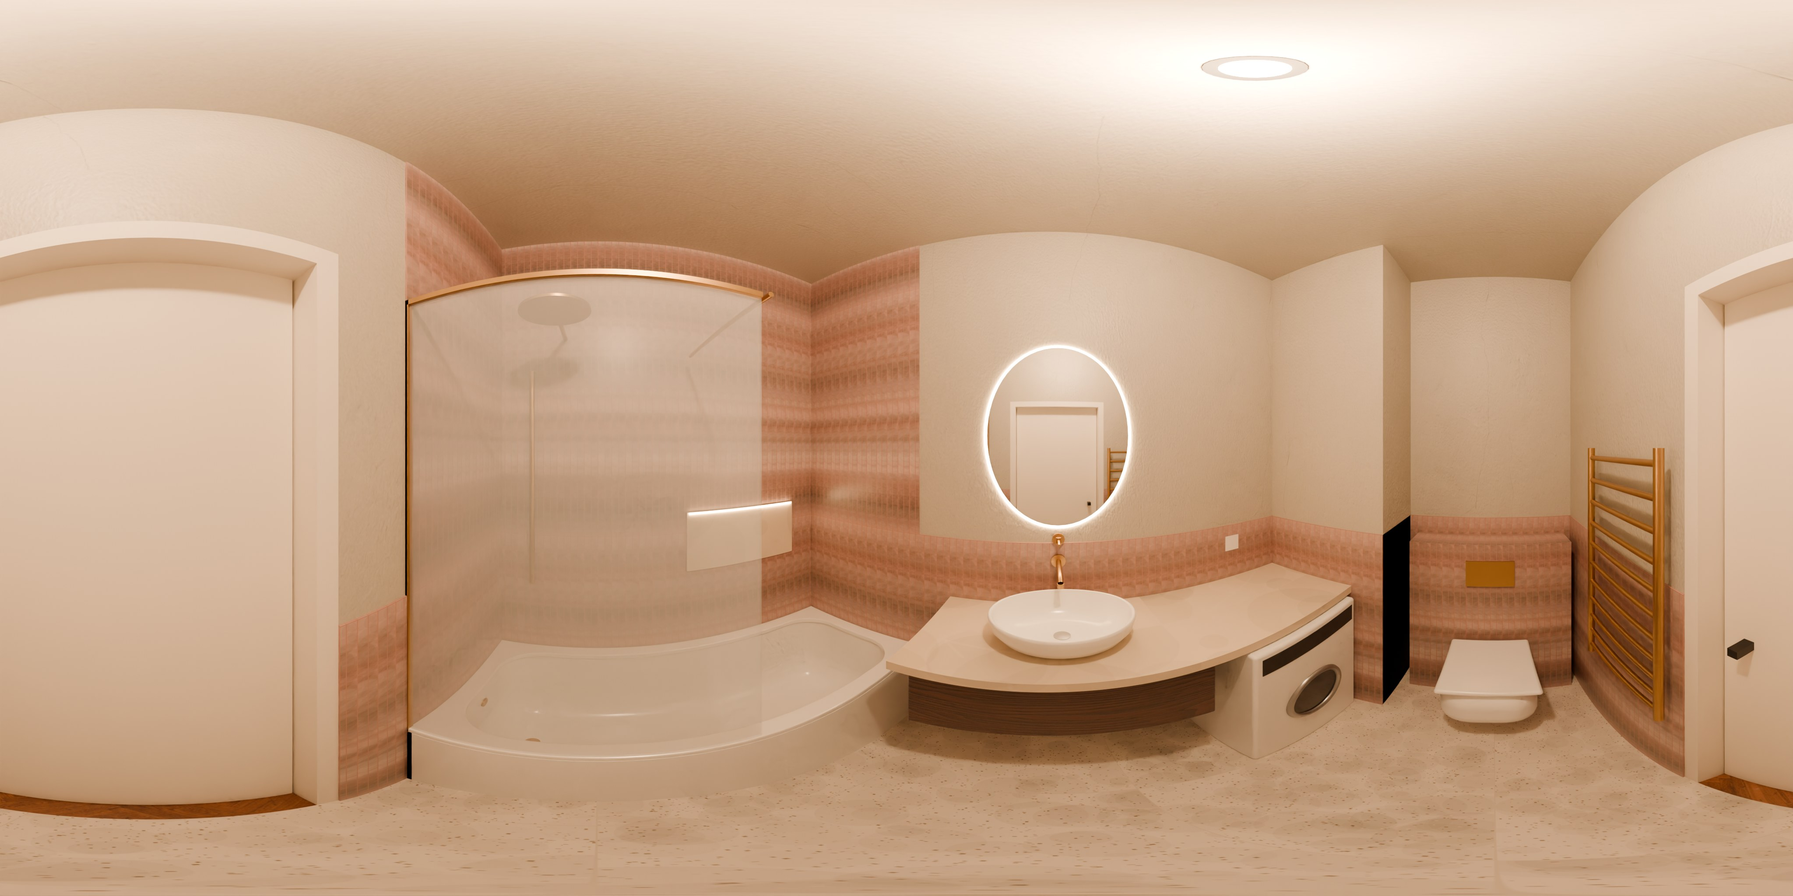
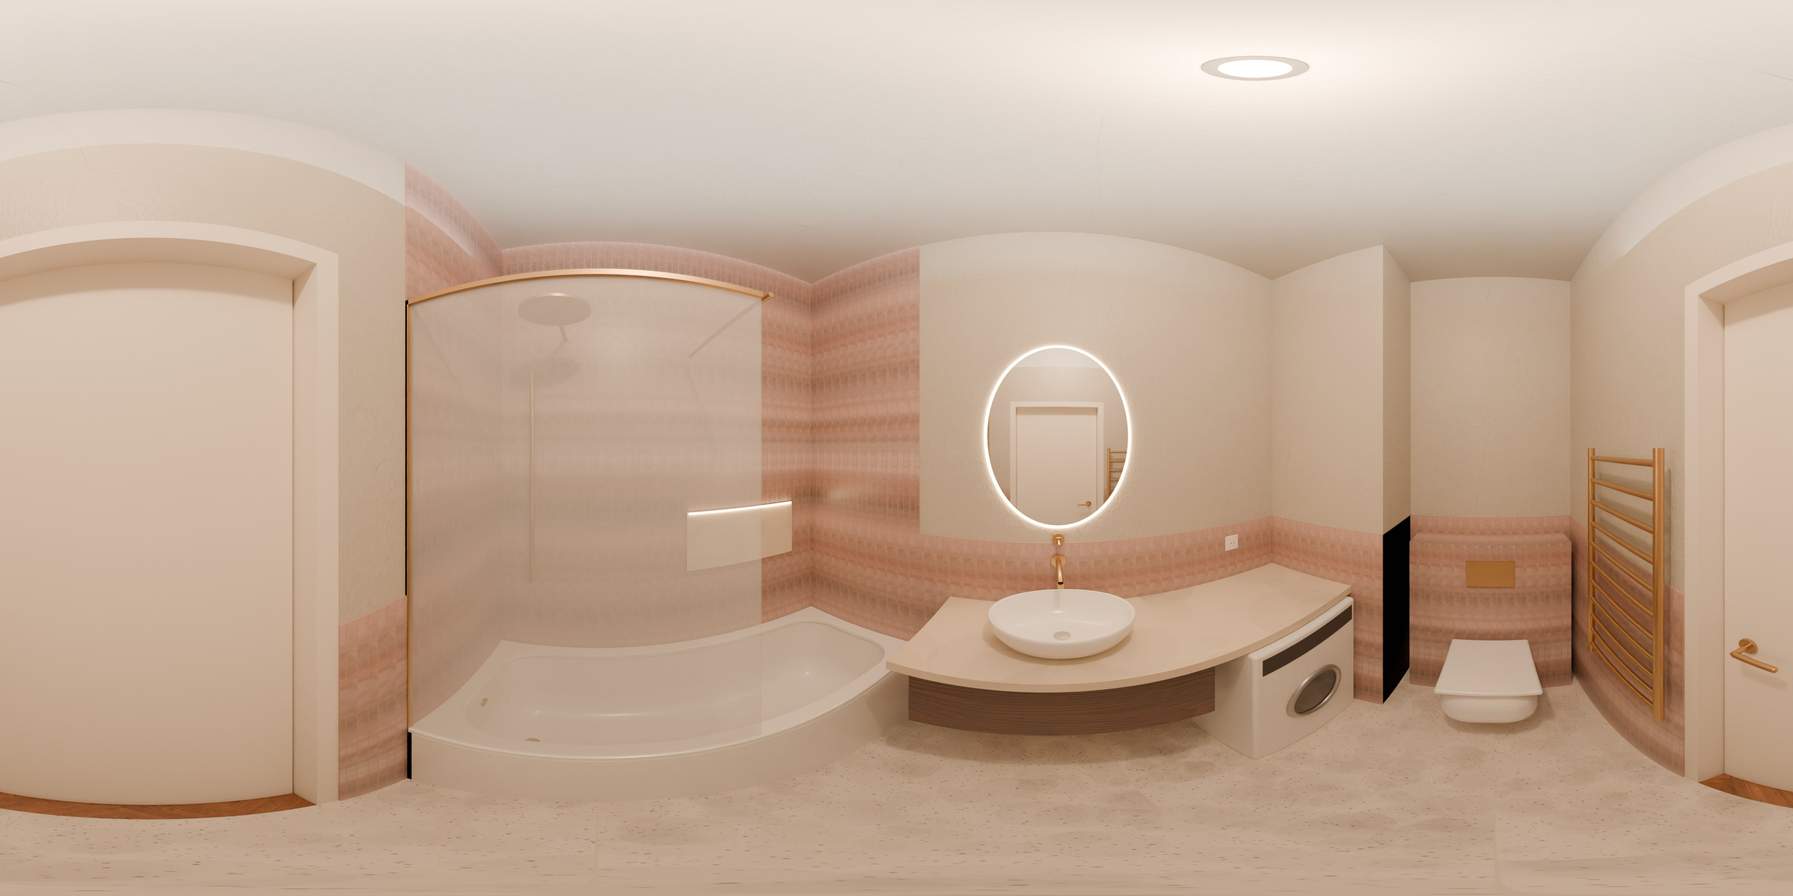
Detale i światło: klamki, osprzęt, logika mebli, równe oświetlenie panoram
- usunięty efekt GTAO (schodkowe obwódki na cienkich krawędziach: narożniki, włączniki, klamki)
- klamki z rozetą i dźwignią (drzwi – mosiądz w stylach, okna – dźwignia w dół), włączniki z klawiszem, gniazdka z kołnierzem i otworami
- meble: bez fotela wciśniętego między szafę a okno (styl 1), ozdoby tylko na górnej półce w gabinecie, rozsunięte lampa i stolik przy narożniku
- spacer w dzień: słabsze światło z okien, mocniejsze wypełnienie
- panoramy: krzywa AgX Low Contrast i światło wypełniające pod sufitem; ponowny render 16 panoram

diff --git a/mieszkania/m21/style/styl1.ts b/mieszkania/m21/style/styl1.ts
@@ -26,6 +26,7 @@ export const styl1Materials: Record<SurfaceKey, MaterialSpec> = {
   threshold: oakHerringbone, // jedna podłoga, bez progów
   concrete: { texture: 'smokedOak', tint: 0xb08d6c, roughness: 0.8 }, // balkon: deska tarasowa
   doorInterior: { color: 0xece4d8, roughness: 0.6 }, // drzwi bezprzylgowe w kolorze ściany
+  handle: { color: 0xb8925a, roughness: 0.3, metalness: 1 }, // mosiężne klamki
   doorEntrance: { texture: 'walnut', tint: 0xf5c8a0, roughness: 0.6 }, // od wewnątrz orzech
   bulb: { color: 0xfff6e8, roughness: 0.3 }, // nieużywane – lampy są meblami
 };
@@ -91,8 +92,8 @@ export const styl1Furniture: FurnitureItem[] = [
   // ── Salon: sofa bouclé pod lewą ścianą, stolik z orzecha, trawertynowy stolik boczny, juta, oliwka ──
   { id: 'sofa', type: 'sofa', x: 47.5, y: 685, facing: '+x', params: { w: 240, d: 95, accentA: 'cushionOat', accentB: 'cushionGreen' } },
   { id: 'coffeeTable', type: 'coffeeTable', x: 185, y: 685, facing: '+x', params: { w: 90, h: 36, shape: 'round', mat: 'walnut' } },
-  { id: 'sideTable', type: 'sideTable', x: 60, y: 545, facing: '+x', params: { r: 20, h: 50, mat: 'travertine' } },
-  { id: 'floorLamp', type: 'floorLampShade', x: 22, y: 540, facing: '+x', params: { h: 165, cd: 25, stem: 'brass' } },
+  { id: 'sideTable', type: 'sideTable', x: 70, y: 545, facing: '+x', params: { r: 20, h: 50, mat: 'travertine' } },
+  { id: 'floorLamp', type: 'floorLampShade', x: 24, y: 540, facing: '+x', params: { h: 165, cd: 25, stem: 'brass' } },
   { id: 'olive', type: 'model', x: 40, y: 838, facing: '+x', params: { file: 'potted_plant_04.glb', height: 150, w: 50, d: 50 } },
   { id: 'livingRug', type: 'rug', x: 130, y: 685, facing: '+x', params: { w: 280, d: 200, mat: 'rugJute' } },
   { id: 'curtainL', type: 'curtain', x: 39, y: 862, facing: '-y', params: { w: 70, mat: 'curtainLinen', ceiling: CEIL } },
@@ -119,6 +120,7 @@ export const styl1Furniture: FurnitureItem[] = [
   { id: 'hallRunner', type: 'rug', x: 640, y: 62, facing: '+y', params: { w: 420, d: 75, mat: 'rugJute' } },
 
   // ── Sypialnia: łóżko 160 × 200 przy prawej ścianie, boiserie z orzecha, pas trawertynu, ryflowane panele do sufitu ──
+  // (fotel z moodboardu pominięty – między szafą a oknem nie da się na nim usiąść)
   { id: 'boiserie', type: 'wallPanel', x: 1034.9, y: -178, facing: '-x', params: { w: 308, h: 105, t: 2, mat: 'walnut' } },
   { id: 'bedBand', type: 'wallPanel', x: 1035, y: -178, z: 105, facing: '-x', params: { w: 308, h: 10, t: 1.8, mat: 'travertine' } },
   { id: 'bedPanels', type: 'wallPanel', x: 1035.5, y: -178, z: 115, facing: '-x', params: { w: 308, h: CEIL - 115, t: 0.8, mat: 'limeFront' } },
@@ -131,8 +133,6 @@ export const styl1Furniture: FurnitureItem[] = [
   { id: 'bench', type: 'block', x: 803, y: -182.9, facing: '-x', params: { w: 100, d: 40, h: 45, r: 3, mat: 'boucle', collide: true } },
   { id: 'bedRug', type: 'rug', x: 900, y: -182.9, facing: '-x', params: { w: 280, d: 230 } },
   { id: 'bedWardrobe', type: 'wardrobe', x: 644.1, y: -124.1, facing: '+x', params: { w: 230, d: 60, h: CEIL, doors: 4, front: 'limeFront' } },
-  { id: 'armchair', type: 'sofa', x: 660, y: -290, facing: '+y', params: { w: 85, d: 80, seats: 1, fabric: 'boucle', accentA: 'cushionOat', accentB: 'boucle' } },
-  { id: 'armchairTable', type: 'sideTable', x: 728, y: -305, facing: '+y', params: { r: 20, h: 50, mat: 'travertine' } },
   { id: 'bedLight', type: 'downlight', x: 830, y: -182, facing: '+y', params: { cd: 28 } },
   { id: 'bedCurtainL', type: 'curtain', x: 636, y: -328, facing: '+y', params: { w: 40, mat: 'curtainLinen', ceiling: CEIL } },
   { id: 'bedSheer', type: 'curtain', x: 727, y: -333, facing: '+y', params: { w: 210, mat: 'curtainSheer', ceiling: CEIL, depth: 6, period: 9 } },
@@ -145,8 +145,8 @@ export const styl1Furniture: FurnitureItem[] = [
   { id: 'deskLeg', type: 'block', x: 575.9, y: -133.7, facing: '-x', params: { w: 3, d: 58, h: 72 } },
   { id: 'deskChair', type: 'diningChair', x: 520, y: -201, facing: '+x', params: { seat: 'boucle' } },
   { id: 'deskShelf1', type: 'wallShelf', x: 593.9, y: -201.2, z: 115, facing: '-x', params: { w: 120, d: 22, mat: 'walnut', decor: false } },
-  { id: 'deskShelf2', type: 'wallShelf', x: 593.9, y: -201.2, z: 150, facing: '-x', params: { w: 120, d: 22, mat: 'walnut' } },
-  { id: 'deskShelf3', type: 'wallShelf', x: 593.9, y: -201.2, z: 185, facing: '-x', params: { w: 120, d: 22, mat: 'walnut', decor: false } },
+  { id: 'deskShelf2', type: 'wallShelf', x: 593.9, y: -201.2, z: 150, facing: '-x', params: { w: 120, d: 22, mat: 'walnut', decor: false } },
+  { id: 'deskShelf3', type: 'wallShelf', x: 593.9, y: -201.2, z: 185, facing: '-x', params: { w: 120, d: 22, mat: 'walnut' } }, // ramka i książki tylko na górnej – niżej nie zmieściłyby się pod półką
   { id: 'deskLed', type: 'block', x: 590, y: -201.2, z: 114.4, facing: '-x', params: { w: 116, d: 1, h: 0.6, mat: 'led' } },
   { id: 'daybed', type: 'bed', x: 397.5, y: -222, facing: '+y', params: { w: 90, l: 190, headH: 70, frame: 'boucle', upholstered: true, pillow: 'cushionGreen' } },
   { id: 'officeWardrobe', type: 'wardrobe', x: 410.5, y: -41.7, facing: '-y', params: { w: 122, d: 65, h: CEIL, doors: 2 } },

diff --git a/src/geometry/fixtures.ts b/src/geometry/fixtures.ts
@@ -1,4 +1,5 @@
 import * as THREE from 'three';
+import { RoundedBoxGeometry } from 'three/addons/geometries/RoundedBoxGeometry.js';
 import type { Apartment, Fixture, FixtureType, Variant } from '../data/types';
 import { inVariant } from '../core/plan';
 import { m } from '../core/units';
@@ -32,17 +33,27 @@ export function bulbLamps(ap: Apartment, variant: Variant): Lamp[] {
     .map((f) => ({ x: f.x, y: f.y, z: f.z - CABLE - HOLDER - BULB_RADIUS, intensity: BULB_CD, color: BULB_COLOR }));
 }
 
-function plateBox(f: Fixture): PlanBox {
+const FACING_ANGLE = { '+y': 0, '-y': Math.PI, '+x': Math.PI / 2, '-x': -Math.PI / 2 } as const;
+
+/** Lico osprzętu (cm → m): zaokrąglona ramka; włącznik z klawiszem, gniazdko z kołnierzem i otworami (`dark`). */
+function plateParts(f: Fixture): { light: THREE.BufferGeometry[]; dark: THREE.BufferGeometry[] } {
+  if (f.facing === 'down') throw new Error(`osprzęt ${f.id}: lico 'down' tylko dla wypustu sufitowego`);
   const [w, h, t] = PLATE[f.type as keyof typeof PLATE];
-  const z0 = f.z - h / 2;
-  const z1 = f.z + h / 2;
-  switch (f.facing) {
-    case '+y': return { x0: f.x - w / 2, x1: f.x + w / 2, y0: f.y, y1: f.y + t, z0, z1 };
-    case '-y': return { x0: f.x - w / 2, x1: f.x + w / 2, y0: f.y - t, y1: f.y, z0, z1 };
-    case '+x': return { x0: f.x, x1: f.x + t, y0: f.y - w / 2, y1: f.y + w / 2, z0, z1 };
-    case '-x': return { x0: f.x - t, x1: f.x, y0: f.y - w / 2, y1: f.y + w / 2, z0, z1 };
-    case 'down': throw new Error(`osprzęt ${f.id}: lico 'down' tylko dla wypustu sufitowego`);
+  const light: THREE.BufferGeometry[] = [new RoundedBoxGeometry(w, h, t, 3, Math.min(0.6, t / 2 - 0.01)).translate(0, 0, t / 2)];
+  const dark: THREE.BufferGeometry[] = [];
+  if (f.type === 'switch') light.push(new RoundedBoxGeometry(5, 5, 0.6, 2, 0.25).translate(0, 0, t + 0.1));
+  if (f.type === 'socket' || f.type === 'socketDouble') {
+    for (const cx of f.type === 'socket' ? [0] : [-3.6, 3.6]) {
+      light.push(new THREE.CylinderGeometry(2.3, 2.3, 0.3, 32).rotateX(Math.PI / 2).translate(cx, 0, t + 0.1));
+      for (const hx of [-0.95, 0.95]) dark.push(new THREE.CylinderGeometry(0.28, 0.28, 0.2, 12).rotateX(Math.PI / 2).translate(cx + hx, 0, t + 0.26));
+    }
   }
+  const place = new THREE.Matrix4()
+    .makeTranslation(m(f.x), m(f.z), m(f.y))
+    .multiply(new THREE.Matrix4().makeRotationY(FACING_ANGLE[f.facing]))
+    .multiply(new THREE.Matrix4().makeScale(0.01, 0.01, 0.01));
+  for (const g of [...light, ...dark]) g.applyMatrix4(place);
+  return { light, dark };
 }
 
 /** Grzejniki płytowe i osprzęt elektryczny (orientacyjny) stanu surowego. */
@@ -51,6 +62,8 @@ export function buildFixtures(ap: Apartment, variant: Variant, ceiling: CeilingF
   group.name = 'fixtures';
   const plates: PlanBox[] = [];
   const cables: PlanBox[] = [];
+  const faces: THREE.BufferGeometry[] = [];
+  const holes: THREE.BufferGeometry[] = [];
 
   for (const f of ap.fixtures.filter((fx) => inVariant(fx, variant))) {
     if (f.type === 'ceilingOutlet' && ceiling === 'none') continue;
@@ -58,7 +71,9 @@ export function buildFixtures(ap: Apartment, variant: Variant, ceiling: CeilingF
       cables.push({ x0: f.x - 0.4, x1: f.x + 0.4, y0: f.y - 0.4, y1: f.y + 0.4, z0: f.z - CABLE, z1: f.z });
       plates.push({ x0: f.x - 2, x1: f.x + 2, y0: f.y - 2, y1: f.y + 2, z0: f.z - CABLE - HOLDER, z1: f.z - CABLE });
     } else {
-      plates.push(plateBox(f));
+      const { light, dark } = plateParts(f);
+      faces.push(...light);
+      holes.push(...dark);
     }
   }
 
@@ -68,8 +83,8 @@ export function buildFixtures(ap: Apartment, variant: Variant, ceiling: CeilingF
       : [];
   const radiators = ap.radiators.map((r) => boxGeometry({ x0: r.x0, x1: r.x1, y0: r.y0, y1: r.y1, z0: r.bottom, z1: r.top }));
   const parts: [keyof MaterialSet, THREE.BufferGeometry[]][] = [
-    ['fixture', plates.map(boxGeometry)],
-    ['cable', cables.map(boxGeometry)],
+    ['fixture', [...plates.map(boxGeometry), ...faces]],
+    ['cable', [...cables.map(boxGeometry), ...holes]],
     ['radiator', radiators],
     ['bulb', bulbs],
   ];

diff --git a/src/geometry/openings.ts b/src/geometry/openings.ts
@@ -1,4 +1,5 @@
 import * as THREE from 'three';
+import { RoundedBoxGeometry } from 'three/addons/geometries/RoundedBoxGeometry.js';
 import type { Apartment, Door, DoorKind, Variant } from '../data/types';
 import { wallAxis, wallsFor } from '../core/plan';
 import { m } from '../core/units';
@@ -63,6 +64,34 @@ export interface OpeningsOptions {
   interiorDoors: boolean;
 }
 
+/**
+ * Klamka po obu stronach skrzydła (cm → m): rozeta, szyjka i dźwignia w stronę środka skrzydła (drzwi)
+ * albo w dół (okna, drzwi balkonowe). `a` – położenie wzdłuż ściany, `n` – środek grubości skrzydła.
+ */
+function handle(wall: Parameters<typeof alongWall>[0], a: number, n: number, thickness: number, toCenter: 1 | -1, down: boolean): THREE.BufferGeometry[] {
+  const Z = 104;
+  const alongX = wallAxis(wall) === 'x';
+  // Układ lokalny: x wzdłuż ściany, y w górę, z w poprzek; ściana wzdłuż y – obrót o 90° (lokalne x → −Y rzutu).
+  const dir = alongX ? toCenter : -toCenter;
+  const parts: THREE.BufferGeometry[] = [];
+  for (const f of [1, -1]) {
+    const face = f * (thickness / 2);
+    parts.push(new THREE.CylinderGeometry(2.6, 2.6, 0.8, 32).rotateX(Math.PI / 2).translate(0, 0, face + f * 0.4)); // rozeta
+    parts.push(new THREE.CylinderGeometry(0.9, 0.9, 5, 16).rotateX(Math.PI / 2).translate(0, 0, face + f * 3.3)); // szyjka
+    parts.push(
+      down
+        ? new RoundedBoxGeometry(1.8, 11, 1.6, 3, 0.7).translate(0, -5, face + f * 5.4)
+        : new RoundedBoxGeometry(12, 1.8, 1.8, 3, 0.8).translate(dir * 5.5, 0, face + f * 5.4),
+    ); // dźwignia
+  }
+  const at = alongWall(wall, a, a, n, n, Z, Z);
+  const place = new THREE.Matrix4()
+    .makeTranslation(m(at.x0), m(Z), m(at.y0))
+    .multiply(new THREE.Matrix4().makeRotationY(alongX ? 0 : Math.PI / 2))
+    .multiply(new THREE.Matrix4().makeScale(0.01, 0.01, 0.01));
+  return parts.map((g) => g.applyMatrix4(place));
+}
+
 export function buildOpenings(ap: Apartment, opts: OpeningsOptions, mats: MaterialSet): { group: THREE.Group; leaves: DoorLeaf[] } {
   const group = new THREE.Group();
   group.name = 'openings';
@@ -123,15 +152,15 @@ export function buildOpenings(ap: Apartment, opts: OpeningsOptions, mats: Materi
     const leafParts: [SurfaceKey, PlanBox][] = style.glazed
       ? glazedPanel(leafA0, leafA1)
       : [[style.leaf, box(leafA0, leafA1, leafN, zBottom, zTop)]];
-    const handleN: [number, number] = [plane + s * 6, plane - s * (style.leafThickness + 6)];
-    leafParts.push(['metal', box(handleA - 1.5, handleA + 1.5, handleN, 103, 106)]);
+    const handleGeos = handle(wall, handleA, plane - (s * style.leafThickness) / 2, style.leafThickness, (-d) as 1 | -1, style.glazed);
 
     const pivotPos = alongWall(wall, hingeA, hingeA, plane, plane, 0, 0);
     const pivot = new THREE.Group();
     pivot.name = `door:${door.id}`;
     pivot.position.set(m(pivotPos.x0), 0, m(pivotPos.y0));
-    for (const key of new Set(leafParts.map(([k]) => k))) {
-      const geo = mergeStatic(leafParts.filter(([k]) => k === key).map(([, b]) => boxGeometry(b)));
+    const handleKey: SurfaceKey = style.glazed ? 'metal' : 'handle';
+    for (const key of new Set([...leafParts.map(([k]) => k), handleKey])) {
+      const geo = mergeStatic([...leafParts.filter(([k]) => k === key).map(([, b]) => boxGeometry(b)), ...(key === handleKey ? handleGeos : [])]);
       geo.translate(-pivot.position.x, 0, -pivot.position.z);
       const mesh = new THREE.Mesh(geo, mats[key]);
       mesh.castShadow = key !== 'glass';

diff --git a/src/main.ts b/src/main.ts
@@ -6,7 +6,6 @@ import type { ModeId } from './data/modes';
 import type { Room, Variant } from './data/types';
 import { buildApartmentModel, type ApartmentModel } from './geometry/apartmentModel';
 import { createRenderer, bindResize } from './scene/renderer';
-import { PostFx } from './scene/postfx';
 import { bakeLights, exportBakeScene, isBakeable, loadBake, setAmbientLight } from './scene/bake';
 import { SKY_HDRI } from './data/materials';
 import type { MaterialSet } from './scene/materials';
@@ -154,8 +153,6 @@ window.addEventListener('keydown', (e) => e.code === 'KeyP' && void openPanorama
 sidebar.append(roomList.element, panoButton, minimap.element);
 hudRoot.appendChild(sidebar);
 
-const postfx = isTouch ? null : new PostFx(renderer, scene, walkCamera); // na telefonie bez efektów – płynność ważniejsza
-
 bindResize(renderer, (w, h) => {
   walkCamera.aspect = w / h;
   // Na pionowym ekranie szerszy kąt w pionie, żeby w poziomie nie widzieć „przez dziurkę od klucza”.
@@ -163,7 +160,6 @@ bindResize(renderer, (w, h) => {
   walkCamera.updateProjectionMatrix();
   views.resize(w, h);
   labels.renderer.setSize(w, h);
-  postfx?.setSize(w, h);
 });
 
 // Materiały trybów (ładowane przy pierwszym użyciu) i niebo.
@@ -337,7 +333,6 @@ void loadMode(store.get().mode);
 const adaptive = new AdaptiveQuality(
   renderer,
   () => materials && Object.values(materials).forEach((mat) => (mat.needsUpdate = true)),
-  postfx ? [() => (postfx.enabled = false)] : [], // za wolno – najpierw wyłączamy efekty
 );
 const tickFps = isDebug ? createFpsMeter() : null;
 if (isDebug) {
@@ -378,11 +373,10 @@ if (isDebug) {
     await upload(`${loadedMode}-${time}.json`, JSON.stringify(lights));
     return `${loadedMode}: ${(glb.byteLength / 1e6).toFixed(1)} MB, lamp: ${lights.lamps.length}`;
   };
-  Object.assign(window, { app: { player, doors, desktop, touch, apartment, store, walk, pick, adaptive, memory, stats, renderer, bench, postfx, exportBake, baked: () => baked } });
+  Object.assign(window, { app: { player, doors, desktop, touch, apartment, store, walk, pick, adaptive, memory, stats, renderer, bench, exportBake, baked: () => baked } });
 }
 
-// Przy wypalonym świetle cienie w kątach są już w lightmapie – efekt GTAO zbędny.
-const renderWalk = () => (postfx?.enabled && !baked ? postfx.render(walkCamera) : renderer.render(scene, walkCamera));
+const renderWalk = () => renderer.render(scene, walkCamera);
 
 const clock = new THREE.Clock();
 renderer.setAnimationLoop(() => {

diff --git a/mieszkania/m21/style/styl2.ts b/mieszkania/m21/style/styl2.ts
@@ -33,7 +33,7 @@ const REPLACED = new Set([
   'stoolA', 'stoolB', 'tvWall', 'nicheBack', 'nicheSideN', 'nicheSideS', 'nicheLed', 'tv', 'tvCabinet',
   'sofa', 'coffeeTable', 'sideTable', 'floorLamp', 'olive', 'livingRug',
   'diningTable', 'chairN', 'chairW', 'chairS', 'diningDome', 'hallRunner',
-  'bedWardrobe', 'armchair', 'armchairTable',
+  'bedWardrobe',
   'accentWall', 'deskTop', 'deskDrawers', 'deskLeg', 'deskChair', 'deskShelf1', 'deskShelf2', 'deskShelf3', 'deskLed', 'daybed', 'rollerBlind',
 ]);
 
@@ -60,8 +60,8 @@ export const styl2Furniture: FurnitureItem[] = [
   { id: 'sofa', type: 'sofa', x: 47.5, y: 695, facing: '+x', params: { w: 270, d: 95, accentA: 'cushionOat', accentB: 'cushionGreen' } },
   { id: 'chaise', type: 'block', x: 125, y: 607.5, facing: '+x', params: { w: 95, d: 60, h: 44, r: 6, mat: 'boucle', collide: true } },
   { id: 'coffeeTable', type: 'coffeeTable', x: 190, y: 712, facing: '+x', params: { w: 90, h: 36, shape: 'round', mat: 'walnut' } },
-  { id: 'sideTable', type: 'sideTable', x: 65, y: 535, facing: '+x', params: { r: 20, h: 50, mat: 'travertine' } },
-  { id: 'floorLamp', type: 'floorLampShade', x: 20, y: 540, facing: '+x', params: { h: 165, cd: 25, stem: 'brass' } },
+  { id: 'sideTable', type: 'sideTable', x: 70, y: 535, facing: '+x', params: { r: 20, h: 50, mat: 'travertine' } },
+  { id: 'floorLamp', type: 'floorLampShade', x: 24, y: 536, facing: '+x', params: { h: 165, cd: 25, stem: 'brass' } },
   { id: 'olive', type: 'model', x: 35, y: 852, facing: '+x', params: { file: 'potted_plant_04.glb', height: 120, w: 45, d: 45 } },
   { id: 'livingRug', type: 'rug', x: 175, y: 712, facing: '+x', params: { w: 240, d: 170, mat: 'rugJute' } },
 

diff --git a/src/core/quality.ts b/src/core/quality.ts
@@ -20,7 +20,7 @@ const WARMUP_SECONDS = 2;
 
 /**
  * Automatyczne obniżanie jakości, gdy średni FPS spada poniżej 30:
- * najpierw przekazane kroki (np. efekty obrazu), potem rozdzielczość renderowania (DPR), na końcu cienie. Jakości nie podnosi z powrotem.
+ * najpierw rozdzielczość renderowania (DPR), na końcu cienie. Jakości nie podnosi z powrotem.
  */
 export class AdaptiveQuality {
   private elapsed = 0;
@@ -29,11 +29,10 @@ export class AdaptiveQuality {
   private level = 0;
   private readonly steps: (() => void)[];
 
-  constructor(private readonly renderer: THREE.WebGLRenderer, private readonly onShadowsOff: () => void, firstSteps: (() => void)[] = []) {
+  constructor(private readonly renderer: THREE.WebGLRenderer, private readonly onShadowsOff: () => void) {
     const start = renderer.getPixelRatio();
     const ratios = [1.25, 1].filter((r) => r < start);
     this.steps = [
-      ...firstSteps,
       ...ratios.map((r) => () => renderer.setPixelRatio(r)),
       () => {
         renderer.shadowMap.enabled = false;

diff --git a/scripts/panoramas.ts b/scripts/panoramas.ts
@@ -33,6 +33,8 @@ for (const style of styles) {
     args.push('--size', size, '--samples', samples, '--camera', `${p.x / 100},${p.z / 100},${p.y / 100},${p.yaw}`, '--exposure', String(p.exposure));
     if (p.lamps === 'all') args.push('--lamps-from', `bake-work/${style}-evening.json`);
     if (p.lampGain) args.push('--lamp-gain', String(p.lampGain));
+    // Wnętrze równo doświetlone i łagodna krzywa kontrastu – klient ma zobaczyć pokój, nie głębokie cienie.
+    args.push('--look', 'AgX - Low Contrast', '--fill', String(p.fill ?? 45));
     const started = Date.now();
     const run = spawnSync(BLENDER, args, { encoding: 'utf8' });
     if (run.status !== 0) throw new Error(`${name}: Blender zakończył się błędem\n${run.stderr.slice(-2000)}`);

diff --git a/src/scene/lighting.ts b/src/scene/lighting.ts
@@ -21,7 +21,8 @@ const PRESETS: Record<TimeOfDay, {
   background: number;
   lampsOn: boolean; // lampy sztuczne (poza tymi, które świecą zawsze – np. łazienka bez okna)
 }> = {
-  day: { exposure: 1.05, sun: 3.2, sky: 7, skyColor: 0xdde8f7, fill: 0.8, environment: 0.35, background: 1, lampsOn: false },
+  // Wyrównane: słabsze światło z okien, mocniejsze wypełnienie – przy oknie mniej przepaleń, w głębi pokoju jaśniej.
+  day: { exposure: 1.05, sun: 3.2, sky: 4.5, skyColor: 0xdde8f7, fill: 1.3, environment: 0.5, background: 1, lampsOn: false },
   evening: { exposure: 0.85, sun: 0, sky: 0.35, skyColor: 0x5d6f9c, fill: 0.15, environment: 0.04, background: 0.06, lampsOn: true },
 };
 

diff --git a/src/data/modes/common.ts b/src/data/modes/common.ts
@@ -9,6 +9,7 @@ export const COMMON = {
   glass: { color: 0xc9dbe6, roughness: 0.05, opacity: 0.12 },
   doorEntrance: { color: 0x56534f, roughness: 0.45, metalness: 0.3 },
   metal: { color: 0x2a2b2d, roughness: 0.4, metalness: 0.7 },
+  handle: { color: 0x2a2b2d, roughness: 0.3, metalness: 0.8 }, // klamki drzwi
   radiator: { color: 0xf1f1ee, roughness: 0.35 },
   fixture: { color: 0xf4f3ef, roughness: 0.4 },
   cable: { color: 0x2d2d2d, roughness: 0.6 },

diff --git a/src/site.ts b/src/site.ts
@@ -31,6 +31,8 @@ export interface Panorama {
   lamps?: 'all';
   /** Mnożnik mocy lamp na zdjęciu (domyślnie 1) – łazienka, WC i hol bez okna wychodziły prześwietlone. */
   lampGain?: number;
+  /** Światło wypełniające (domyślnie 45, jak lampa fotografa odbita od sufitu); 0 – bez. */
+  fill?: number;
 }
 
 export const { id: siteId, apartment, badge } = site;

diff --git a/src/scene/materials.ts b/src/scene/materials.ts
@@ -17,6 +17,7 @@ export type SurfaceKey =
   | 'doorEntrance'
   | 'doorInterior'
   | 'metal'
+  | 'handle'
   | 'radiator'
   | 'fixture'
   | 'cable'

diff --git a/scripts/bake.py b/scripts/bake.py
@@ -24,6 +24,8 @@ args.add_argument('--panorama', action='store_true', help='zamiast wypalania: pa
 args.add_argument('--camera', default='1.6,1.65,1.6,0', help='x,y,z (m, three.js), kierunek patrzenia w stopniach (0 = +z)')
 args.add_argument('--lamps-from', help='lampy z innego pliku świateł (np. wieczornego) – pomieszczenia bez okna na zdjęciach dziennych')
 args.add_argument('--lamp-gain', type=float, default=1, help='mnożnik mocy lamp (pomieszczenia oświetlone tylko lampami)')
+args.add_argument('--look', default='AgX - Base Contrast', help='krzywa kontrastu AgX (panoramy: łagodniejsza – mniej przepaleń przy oknie, jaśniejsze kąty)')
+args.add_argument('--fill', type=float, default=0, help='światło wypełniające pod sufitem nad kamerą (W przy ekspozycji 0), jak lampa fotografa odbita od sufitu')
 args.add_argument('--exposure', type=float, default=4.5, help='ekspozycja wnętrza w EV (jak w aparacie): podgląd i jasność lightmapy w spacerze')
 a = args.parse_args(sys.argv[sys.argv.index('--') + 1:])
 
@@ -122,7 +124,19 @@ if a.preview or a.panorama:
     scene.camera = cam
     scene.view_settings.view_transform = 'AgX'
     scene.view_settings.exposure = a.exposure
+    scene.view_settings.look = a.look
     scene.cycles.samples = a.samples
+    if a.fill:
+        # Niewidoczny w kadrze dysk ⌀2 m 30 cm pod sufitem, świecący w sufit – miękkie, równe doświetlenie pokoju.
+        fill = bpy.data.objects.new('fill', bpy.data.lights.new('fill', type='AREA'))
+        fill.data.shape = 'DISK'
+        fill.data.size = 2
+        fill.data.energy = a.fill * 2 ** -a.exposure
+        fill.data.color = (1.0, 0.95, 0.88)
+        fill.location = (x, -z, 2.4)
+        fill.rotation_euler = (math.pi, 0, 0)  # świeci w górę
+        fill.visible_camera = False
+        scene.collection.objects.link(fill)
     if a.panorama:
         # Panorama sferyczna (equirectangular 2:1) – środek obrazu to kierunek `yaw`; odszumianie OIDN z kolorem i normalnymi.
         cam.data.type = 'PANO'
